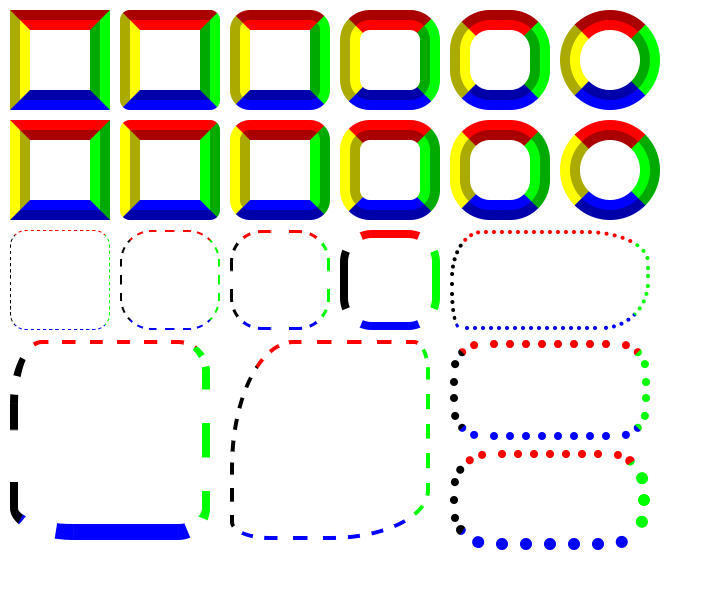
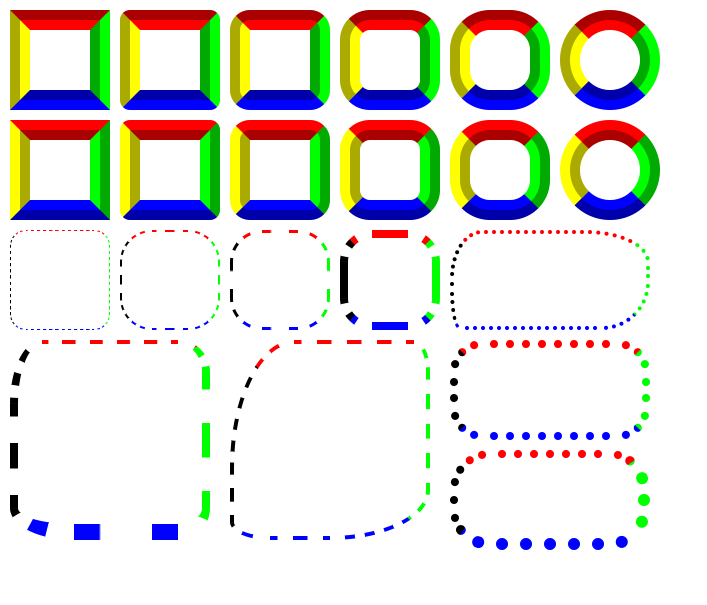
A bit closer to what we used to do.

diff --git a/webrender/src/border.rs b/webrender/src/border.rs
@@ -352,7 +352,6 @@ impl BorderCornerClipSource {
 
         match self.kind {
             BorderCornerClipKind::Dash => {
-
                 // Get the correct half-dash arc length.
                 let half_dash_arc_length =
                     self.ellipse.total_arc_length / max_clip_count as f32;
@@ -363,12 +362,8 @@ impl BorderCornerClipSource {
                 // made in non-rounded segments by BrushFlags::DASH_OFFSET.
                 let mut current_length = -half_dash_arc_length;
 
-                // This is a bit hacky: we want half of the dash to be in the
-                // corner, and since we're walking backwards the segment would
-                // be clipped, then not-clipped. So we need to calculate the
-                // clip as if it was past the end.
-                dot_dash_data.reserve(max_clip_count);
-                while current_length < self.ellipse.total_arc_length {
+                dot_dash_data.reserve(max_clip_count / 4);
+                for _ in 0 .. (max_clip_count / 4) {
                     let arc_length0 = current_length;
                     current_length += dash_length;
 
@@ -572,7 +567,7 @@ impl EdgeInfo {
 // the 'on' segment) and the count of them for a given segment.
 fn compute_half_dash(side_width: f32, total_size: f32) -> (f32, u32) {
     let half_dash = side_width * 1.5;
-    let num_half_dashes = (total_size / half_dash).floor().max(1.0) as u32;
+    let num_half_dashes = (total_size / half_dash).ceil() as u32;
 
     // TODO(emilio): Gecko has some other heuristics here to start with a full
     // dash when the border side is zero, for example. We might consider those
